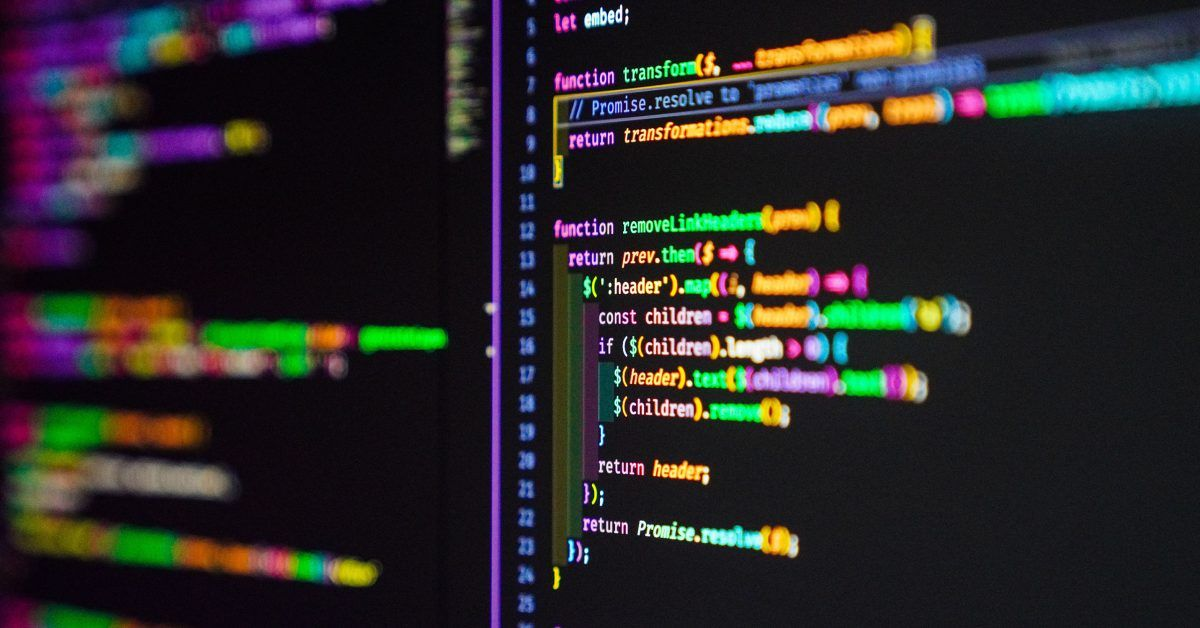
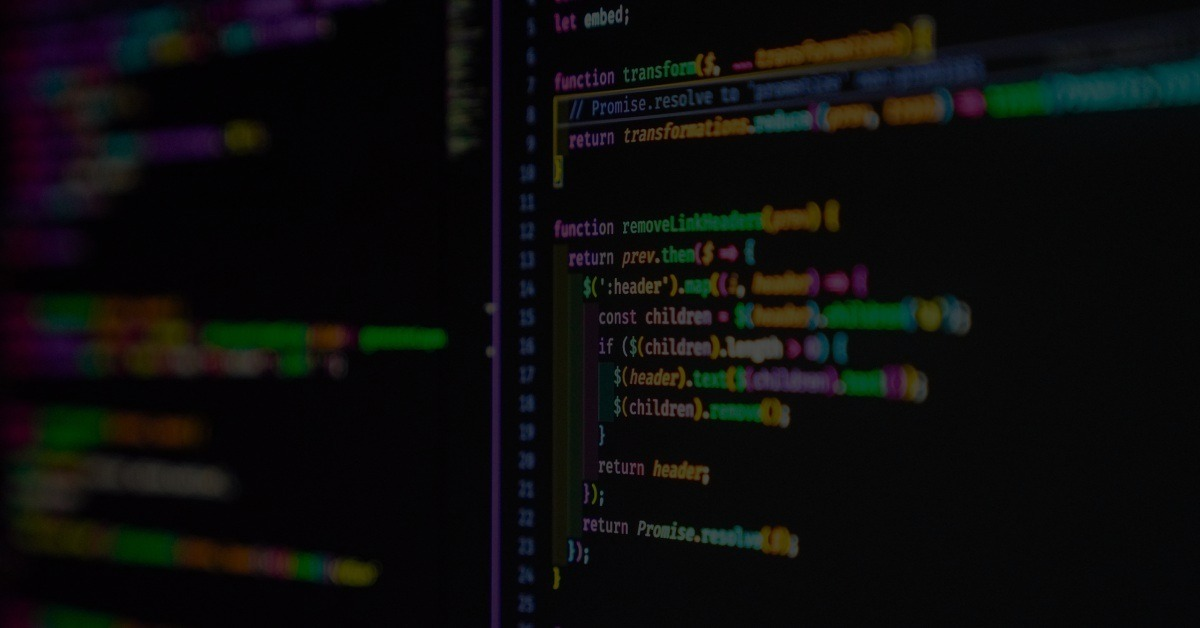
ajout header et début main + footer

diff --git a/assets/style.css b/assets/style.css
@@ -58,28 +58,34 @@ main .titre{
 
 main .about {
     background-color: azure;
+    height: 30%;
 }
 
 main .skills {
     background-color: #000;
     color: azure;
+    height: 30%;
 }
 
 main .experiences {
     background-color: azure;
+    height: 30%;
 }
 
 main .projects {
     background-color: #000;
     color: azure;
+    height: 30%;
 }
 
 main .contact {
     background-color: azure;
+    height: 30%;
 }
 
 footer{
     background-color: #000;
     color: azure;
     position: relative;
+    padding: 15px;
 }

diff --git a/acceuil.html b/acceuil.html
@@ -45,7 +45,7 @@
     </main>
 
     <footer>
-        <p>2025 - Tous droits réservées</p>
+        <em>&copy; 2025 Mon Portfolio. Tous droits réservés.</em>
     </footer>
 </body>
 </html>
